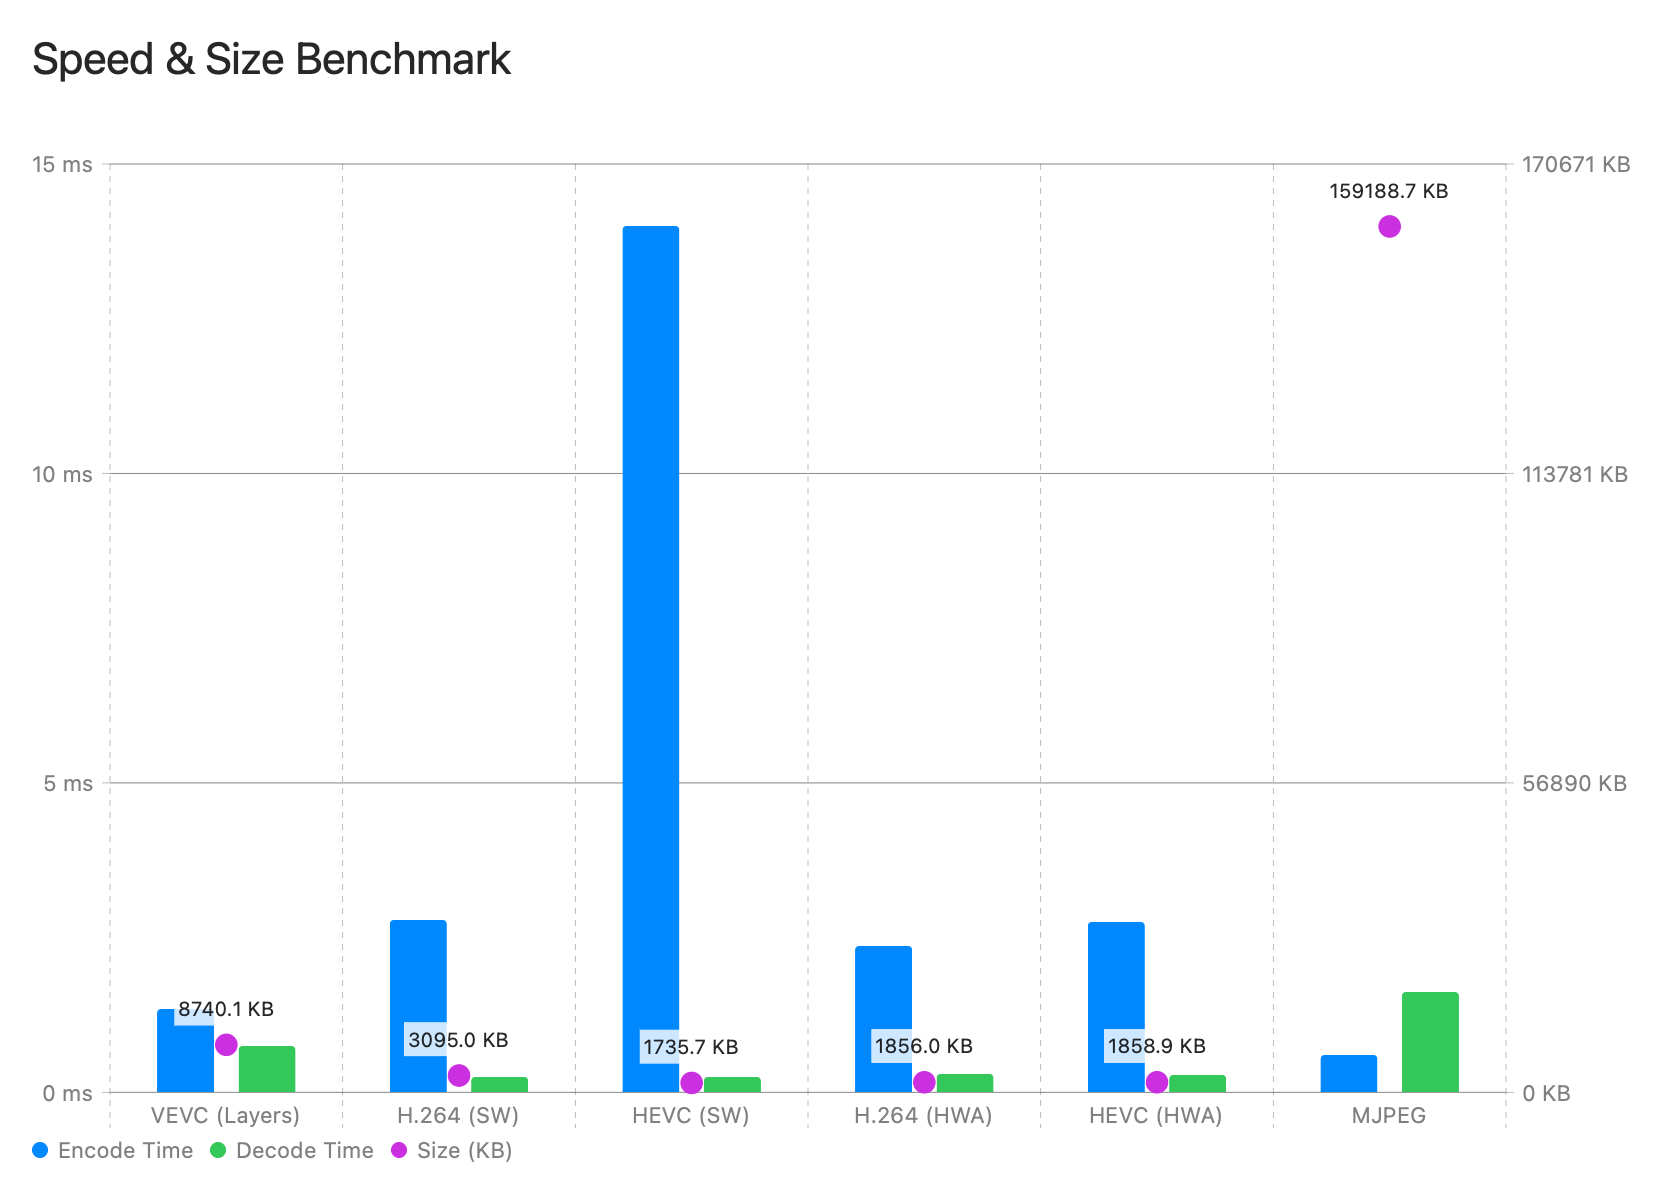
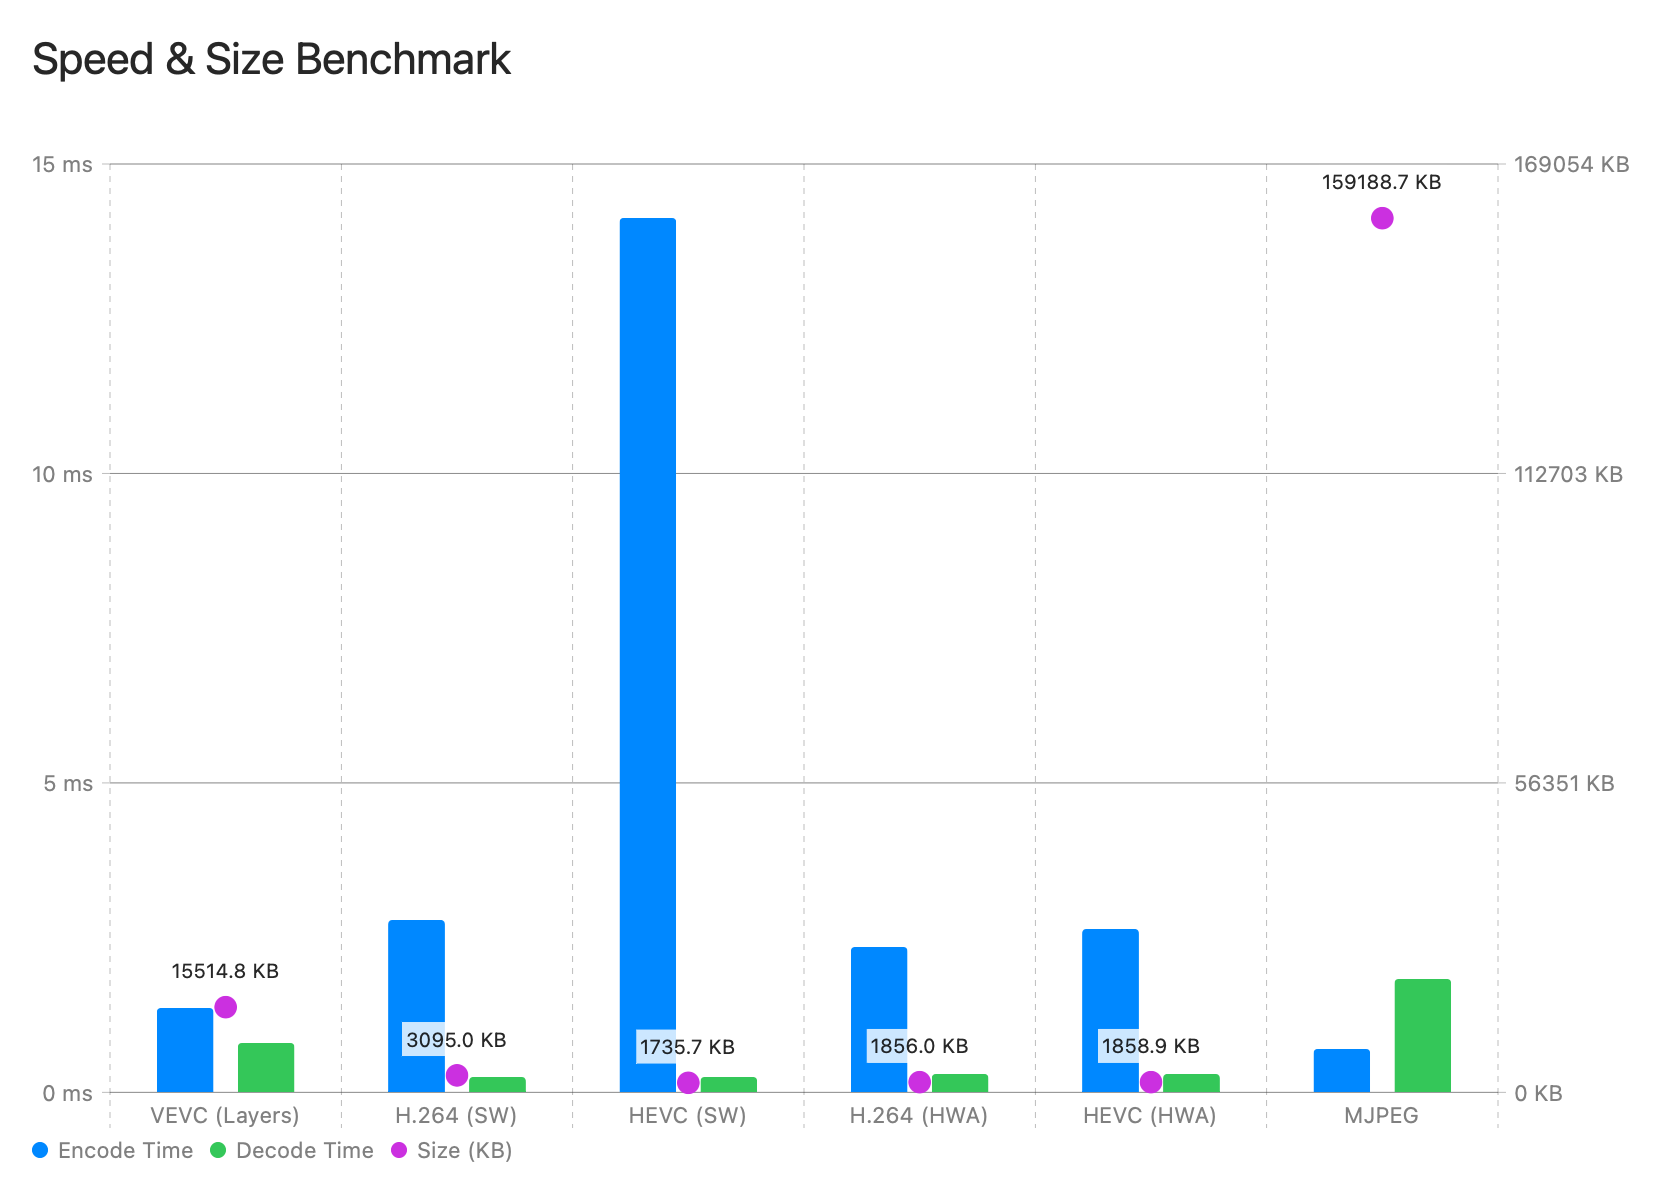
tune

diff --git a/Sources/vevc/Quant.swift b/Sources/vevc/Quant.swift
@@ -35,47 +35,43 @@ struct QuantizationTable: Sendable {
         
         // CSF-based perceptual quantization
         // DWT subbands map to spatial frequency bands:
-            //   Layer 0 (Base8)  = lowest freq  → high CSF sensitivity → fine quantization
-            //   Layer 1 (L16)    = mid freq      → moderate sensitivity
-            //   Layer 2 (L32)    = highest freq  → low sensitivity → coarse quantization
-            //   HH (diagonal) = √2× higher freq than HL/LH → even less perceptible
-            var qMidScale = 1.0    // HL/LH scale
-            var qHighScale = 2.0   // HH scale
-            var qLowDivisor = 6
-            var deadZoneMid = -0.1  // HL/LH dead zone
-            var deadZoneHigh = -0.3 // HH dead zone (wider = more zeros)
+        //   Layer 0 (Base8)  = lowest freq  → high CSF sensitivity → fine quantization
+        //   Layer 1 (L16)    = mid freq      → moderate sensitivity
+        //   Layer 2 (L32)    = highest freq  → low sensitivity → coarse quantization
+        //   HH (diagonal) = √2× higher freq than HL/LH → even less perceptible
+        var qMidScale = 1.0    // HL/LH scale
+        var qHighScale = 1.5   // HH scale
+        var qLowDivisor = 6
+        var deadZoneMid = 0.0  // HL/LH dead zone
+        var deadZoneHigh = 0.0 // HH dead zone
 
-            if layerIndex == 2 {
-                // Layer 32 (High Freq): low CSF sensitivity -> quantize coarsely
-                // Reallocate bit budget for precision of Layer 0/1
-                qMidScale = 2.2
-                qHighScale = 4.5
-                deadZoneMid = -0.20
-                deadZoneHigh = -0.40
-            } else if layerIndex == 1 {
-                // Layer 16 (Mid Freq): structure preservation is important
-                qMidScale = 0.65
-                qHighScale = 1.2
-                deadZoneMid = -0.10
-                deadZoneHigh = -0.25
-            } else if layerIndex == 0 {
-                // Layer 8 (Low Freq - Base): highest CSF sensitivity -> preserve precisely
-                qMidScale = 0.20
-                qHighScale = 0.35
-                qLowDivisor = 16
-                deadZoneMid = -0.05
-                deadZoneHigh = -0.15
-            }
+        if layerIndex == 2 {
+            qMidScale = 1.5
+            qHighScale = 2.5
+            deadZoneMid = -0.05
+            deadZoneHigh = -0.10
+        } else if layerIndex == 1 {
+            qMidScale = 0.5
+            qHighScale = 1.0
+            deadZoneMid = 0.0
+            deadZoneHigh = -0.05
+        } else if layerIndex == 0 {
+            qMidScale = 0.20
+            qHighScale = 0.30
+            qLowDivisor = 16
+            deadZoneMid = 0.0
+            deadZoneHigh = 0.0
+        }
 
-            if isChroma {
-                self.qLow = Quantizer(step: Int(min(2048, max(1, baseStep / 8))), roundToNearest: true)
-                self.qMid = Quantizer(step: Int(min(4096, max(1, Int(Double(baseStep) * qMidScale)))), deadZoneRatio: 0.0)
-                self.qHigh = Quantizer(step: Int(min(8192, max(1, Int(Double(baseStep) * qHighScale)))), deadZoneRatio: 0.0)
-            } else {
-                self.qLow = Quantizer(step: Int(min(4096, max(1, baseStep / qLowDivisor))), roundToNearest: true)
-                self.qMid = Quantizer(step: Int(min(8192, max(1, Int(Double(baseStep) * qMidScale)))), deadZoneRatio: deadZoneMid)
-                self.qHigh = Quantizer(step: Int(min(16384, max(1, Int(Double(baseStep) * qHighScale)))), deadZoneRatio: deadZoneHigh)
-            }
+        if isChroma {
+            self.qLow = Quantizer(step: Int(min(2048, max(1, baseStep / 8))), roundToNearest: true)
+            self.qMid = Quantizer(step: Int(min(4096, max(1, Int(Double(baseStep) * qMidScale)))), deadZoneRatio: 0.0)
+            self.qHigh = Quantizer(step: Int(min(8192, max(1, Int(Double(baseStep) * qHighScale)))), deadZoneRatio: 0.0)
+        } else {
+            self.qLow = Quantizer(step: Int(min(4096, max(1, baseStep / qLowDivisor))), roundToNearest: true)
+            self.qMid = Quantizer(step: Int(min(8192, max(1, Int(Double(baseStep) * qMidScale)))), deadZoneRatio: deadZoneMid)
+            self.qHigh = Quantizer(step: Int(min(16384, max(1, Int(Double(baseStep) * qHighScale)))), deadZoneRatio: deadZoneHigh)
+        }
     }
 }
 

diff --git a/Sources/vevc/Encoder.swift b/Sources/vevc/Encoder.swift
@@ -295,8 +295,7 @@ func estimateQuantization(img: YCbCrImage, targetBits: Int) -> QuantizationTable
         
     let ratio = estimatedTotalBits / Double(targetBits)
     let predictedStep = Double(probeStep) * ratio * 3.5
-    // SSIM Min 0.90を保証するため、量子化ステップの上限を128に厳しく設定
-    let q = min(128, Int(max(1, predictedStep)))
+    let q = min(64, Int(max(1, predictedStep)))
     
     return QuantizationTable(baseStep: q)
 }

diff --git a/README.md b/README.md
@@ -90,7 +90,21 @@
 
 ## Performance
 
-*(Tested with Tears of Steel 1080p, 1802 frames)*
+*(Tested with Tears of Steel 1080p, 1802 frames, target 500 kbps)*
+
+### Speed & Size
+
+![speed_size](docs/speed_size.png)
+
+SW: Software, HWA: Hardware Acceleration
+
+### PSNR
+
+![psnr](docs/psnr.png)
+
+### SSIM
+
+![ssim](docs/ssim.png)
 
 | Codec | Encode (ms/f) | Decode (ms/f) | Size (KB) | SSIM Avg | SSIM Min |
 |-------|---------------|---------------|-----------|----------|----------|
